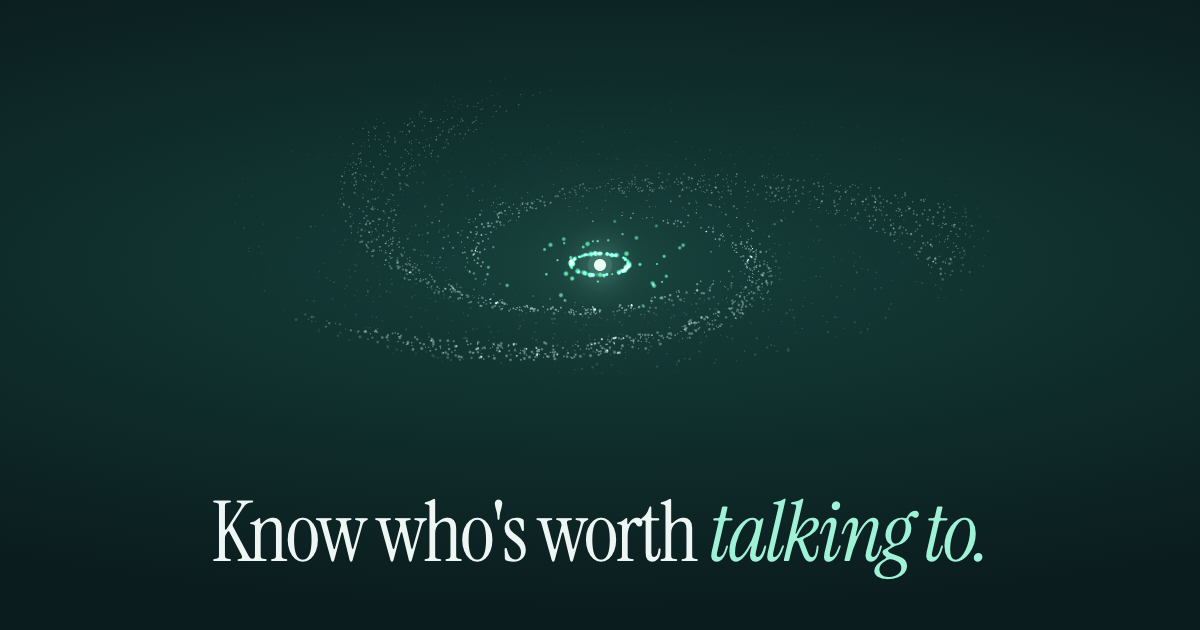
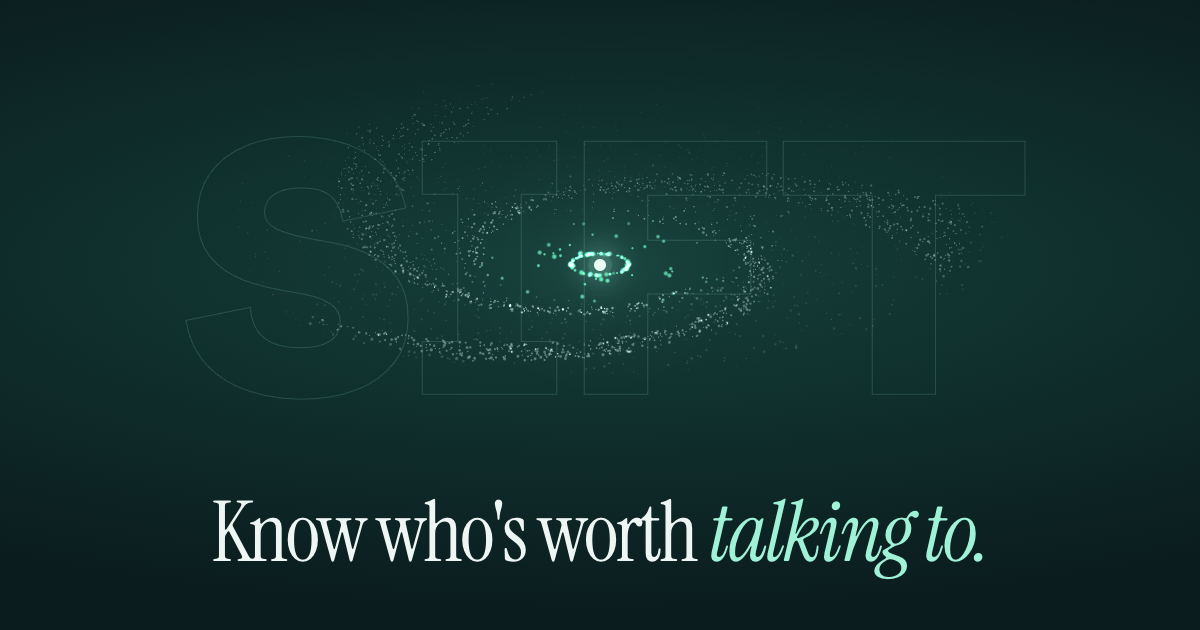
Landing v4.2: outline SIFT wordmark behind the swirl

diff --git a/site/landing.css b/site/landing.css
@@ -107,10 +107,16 @@ main p { line-height: 1.6; }
   min-height: max(100svh, 780px); display: flex; flex-direction: column; justify-content: flex-end; padding: 0 24px 72px;
 }
 .l-vortex { position: absolute; inset: 0; }
-.l-fx { position: absolute; inset: 0; animation: l-fade 1.6s var(--ease-out) both; }
+.l-fx { position: absolute; inset: 0; z-index: 1; animation: l-fade 1.6s var(--ease-out) both; }
+.l-wordmark {
+  position: absolute; z-index: 0; left: 50%; top: var(--vy, 42%); transform: translate(-50%, -50%);
+  font-weight: 800; letter-spacing: -0.03em; line-height: 0.72; white-space: nowrap; font-size: clamp(150px, 30vw, 470px);
+  color: transparent; -webkit-text-stroke: 1px rgba(159, 242, 214, 0.16); user-select: none; pointer-events: none;
+  animation: l-fade 2s var(--ease-out) 0.3s both;
+}
 .l-fx canvas { display: block; }
 .l-core {
-  position: absolute; left: var(--vx, 50%); top: var(--vy, 42%); width: 12px; height: 12px; border-radius: 50%; transform: translate(-50%, -50%);
+  position: absolute; z-index: 2; left: var(--vx, 50%); top: var(--vy, 42%); width: 12px; height: 12px; border-radius: 50%; transform: translate(-50%, -50%);
   background: #e9fff6; box-shadow: 0 0 0 5px rgba(159, 242, 214, 0.14), 0 0 26px 8px rgba(159, 242, 214, 0.45), 0 0 90px 30px rgba(159, 242, 214, 0.12);
   animation: l-fade 1.2s var(--ease-out) 0.4s both, l-breathe 4s var(--ease-move) 1.6s infinite;
 }
@@ -314,6 +320,7 @@ main p { line-height: 1.6; }
   .l-nav nav { display: none; }
   .l-pill { margin-left: auto; }
   .l-hero { min-height: max(100svh, 700px); padding-bottom: 48px; }
+  .l-wordmark { font-size: 36vw; }
   .l-maker { grid-template-columns: auto 1fr; }
   .l-maker-links { grid-column: 1 / -1; }
   .l-site { display: none; }

diff --git a/site/Landing.tsx b/site/Landing.tsx
@@ -101,8 +101,13 @@ function Nav() {
 
 // ---------- hero: the vortex, big and centred; the headline under it ----------
 
-/** The selection point: where the few worth your time end up. */
-const Core = () => <div className="l-core" aria-hidden />;
+/** The outline wordmark behind the swirl, and the selection point where the few worth your time end up. */
+const Core = () => (
+  <>
+    <div className="l-wordmark" aria-hidden>SIFT</div>
+    <div className="l-core" aria-hidden />
+  </>
+);
 
 function Hero() {
   return (

diff --git a/log.md b/log.md
@@ -4,6 +4,19 @@ Newest first. Each entry covers what changed, why, and how it was verified. Desi
 
 ---
 
+## 2026-09-30 — Landing v4.2: outline wordmark behind the swirl (branch `site-redesign`)
+
+> "can we incorporate this part into the hero section somehow i really like it" (the outline SIFT wordmark from v3)
+
+- **What changed:** the giant outline "SIFT" (1 px mint stroke at 16%) is back. It sits behind the vortex, centred on the selection point (the same `--vy` the canvas uses), so the particles sweep across the letters. The layers, back to front: wordmark, canvas, selection point. On phones it is 36vw wide.
+- **Verified:**
+  - screenshots at 1440 and 390 px;
+  - no overflow or page errors;
+  - `og.png` regenerated;
+  - tests pass.
+
+---
+
 ## 2026-09-30 — Landing v4.1: quieter hero, maker strip in the footer (branch `site-redesign`)
 
 > "i dont want those lines/callouts at all - and i am not sure about the center logo also itd be cool to know that i have created this so a contact part at the footer would be cool as well"
